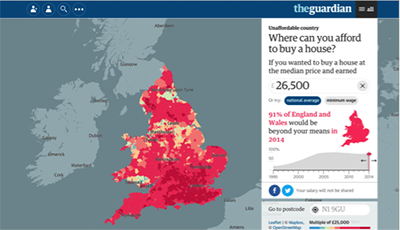
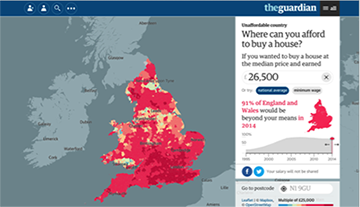
image size updated

diff --git a/tmakarem/_posts/2016-05-16-Data-visualisation-and-Scale-Leveraging-the-macro-and-the-micro.md b/tmakarem/_posts/2016-05-16-Data-visualisation-and-Scale-Leveraging-the-macro-and-the-micro.md
@@ -4,13 +4,11 @@ title: "Data Visualisation and Scale: Leveraging the Macro and the Micro"
 layout: default_post
 summary: "The size of things is relative to the scale that we set. This might sound like a trivial notion, but it is key to creating meaningful data visualisations."
 ---
-
 The size of things is relative to the scale that we set. This might sound like a trivial notion, but it is key to creating meaningful data visualisations.
 
 While attending a lecture on nanotechnology a few years back, I was introduced to The Powers of Ten, a documentary that perfectly illustrates this idea of scale. The documentary explores the relative scale of things in the Universe according to a magnitude based on a factor of ten. The film starts at a picnic in a park, and repeatedly zooms out by a factor of ten, going from the picknicker to the cosmic. It then takes us back to the picknicker, zooming to his hand, into the microscopic.
 
 ![Powers of ten]({{site.github.url}}/tmakarem/assets/000_powers-of-ten.png "Powers of ten")
-
 [Powers of ten](https://www.youtube.com/watch?v=0fKBhvDjuy0)
 
 The main idea in the documentary is that the size of something is relative to what we compare it to. The hand of the picknicker is huge compared to the proton of a carbon within a DNA molecule, but it is tiny compared to the Universe. The less obvious point is that certain things become irrelevant at certain scales. For example, If we try to visualise the proton at the Universe scale, we will find it difficult to get anything meaningful. Each magnitude allows us to perceive a certain type of data.
@@ -23,32 +21,19 @@ When we first look at the wall from afar, we can see that it is under the ground
 
 The commemoration of the dead is portrayed from the macro level to the micro level, unwrapping a layer of the message at each stage, and evoking emotions at each scale. The memorial captures meaning at every level of the scale.
 
-
-![Vietnam war memorial wall, Maya Lin]({{ site.github.url }}/tmakarem/assets/001_mayalin1.png "Vietnam war memorial wall, Maya Lin")
-
-![Vietnam war memorial wall, Maya Lin]({{ site.github.url }}/tmakarem/assets/002_mayalin2.png "Vietnam war memorial wall, Maya Lin")
-
-![Vietnam war memorial wall, Maya Lin]({{ site.github.url }}/tmakarem/assets/003_mayalin3.png "Vietnam war memorial wall, Maya Lin")
-
+![Vietnam war memorial wall, Maya Lin]({{ site.github.url }}/tmakarem/assets/001_mayalin1.png "Vietnam war memorial wall, Maya Lin")![Vietnam war memorial wall, Maya Lin]({{ site.github.url }}/tmakarem/assets/002_mayalin2.png "Vietnam war memorial wall, Maya Lin")![Vietnam war memorial wall, Maya Lin]({{ site.github.url }}/tmakarem/assets/003_mayalin3.png "Vietnam war memorial wall, Maya Lin")
 [Vietnam war memorial wall, Maya Lin](http://www.mayalin.com/)
 
 This type of visualisation can be equally applicable to other formats. Ben Fry, in a project entitled The Preservation of Favoured Traces, uses scale to provide a new perspective on Darwin’s theory, one that highlights its evolution throughout his lifetime. Darwin published On the Origin of Species in 1859 but continued revising it over the years. In Fry’s project, the words are colour-coded based on the edition they appeared in. At a macro level, we can view the extent of changes in Darwin’s theory and how much he adapted it over time. On a micro level, we can look at the exact edits and see how the theory evolved.
 
-![The preservation of Favoured Traces, Ben Fry]({{ site.github.url }}/tmakarem/assets/004_benfry1.png "The preservation of Favoured Traces, Ben Fry")
-
-![The preservation of Favoured Traces, Ben Fry]({{ site.github.url }}/tmakarem/assets/005_benfry2.png "The preservation of Favoured Traces, Ben Fry")
-
+![The preservation of Favoured Traces, Ben Fry]({{ site.github.url }}/tmakarem/assets/004_benfry1.png "The preservation of Favoured Traces, Ben Fry")![The preservation of Favoured Traces, Ben Fry]({{ site.github.url }}/tmakarem/assets/005_benfry2.png "The preservation of Favoured Traces, Ben Fry")
 [The preservation of Favoured Traces, Ben Fry](https://fathom.info/traces/)
 
 Maps are another common example of visualization in which zooming is often used to navigate between the macro and micro. As an example, we can look at a data visualization created by The Guardian entitled Unaffordable country: Where can you afford to buy a house?
 
 On a macro level, the map shows the evolution of the gap between income and house prices over 19 years. For a £26,500 salary from 1998 to 2005, the map goes from blue/green to pink/red, indicating that buyers need a much higher multiple of their salary to afford a house.
 
-![Unaffordable Country: Where can you afford to buy a house?, The Guardian]({{ site.github.url }}/tmakarem/assets/006_guardian1.png "Unaffordable Country: Where can you afford to buy a house?, The Guardian")
-
-![Unaffordable Country: Where can you afford to buy a house?, The Guardian]({{ site.github.url }}/tmakarem/assets/007_guardian2.png "Unaffordable Country: Where can you afford to buy a house?, The Guardian")
-
-[Unaffordable Country: Where can you afford to buy a house?, The Guardian](http://www.theguardian.com/society/ng-interactive/2015/sep/02/unaffordable-country-where-can-you-afford-to-buy-a-house)
+![Unaffordable Country: Where can you afford to buy a house?, The Guardian]({{ site.github.url }}/tmakarem/assets/006_guardian1.png "Unaffordable Country: Where can you afford to buy a house?, The Guardian")![Unaffordable Country: Where can you afford to buy a house?, The Guardian]({{ site.github.url }}/tmakarem/assets/007_guardian2.png "Unaffordable Country: Where can you afford to buy a house?, The Guardian")[Unaffordable Country: Where can you afford to buy a house?, The Guardian](http://www.theguardian.com/society/ng-interactive/2015/sep/02/unaffordable-country-where-can-you-afford-to-buy-a-house)
 
 On a micro level, we can look at the median house price in an area and a more detailed view of the house prices at a street level. The level of detail is kept appropriate to how far we are zoomed in or out.
 
@@ -62,14 +47,9 @@ Consider the design of a calendar for example. Similar to the examples I mention
 
 The yearly view provides an overview. The monthly view highlights days on which we have upcoming events. At that scale, we are less concerned with the exact time of the event or its description. The weekly and daily views are much more time sensitive. They present an itinerary.
 
-![iOS Calendar (Yearly, monthly and daily views)]({{ site.github.url }}/tmakarem/assets/012_ios-calendar-1.png "iOS Calendar (Yearly, monthly and daily views)")
-
-![iOS Calendar (Yearly, monthly and daily views)]({{ site.github.url }}/tmakarem/assets/013_ios-calendar-2.png "iOS Calendar (Yearly, monthly and daily views)")
-
-![iOS Calendar (Yearly, monthly and daily views)]({{ site.github.url }}/tmakarem/assets/014_ios-calendar-3.png "iOS Calendar (Yearly, monthly and daily views)")
+![iOS Calendar (Yearly, monthly and daily views)]({{ site.github.url }}/tmakarem/assets/012_ios-calendar-1.png "iOS Calendar (Yearly, monthly and daily views)")![iOS Calendar (Yearly, monthly and daily views)]({{ site.github.url }}/tmakarem/assets/013_ios-calendar-2.png "iOS Calendar (Yearly, monthly and daily views)")![iOS Calendar (Yearly, monthly and daily views)]({{ site.github.url }}/tmakarem/assets/014_ios-calendar-3.png "iOS Calendar (Yearly, monthly and daily views)")
 
 ![Windows Calendar live tile]({{ site.github.url }}/tmakarem/assets/015-live-tile.jpg "Windows Calendar live tile")
-
 [Windows Calendar live tile](http://winsupersite.com/site-files/winsupersite.com/files/archive/winsupersite.com/content/content/142698/tile.jpg)
 
 If we navigate a calendar from the yearly drilling into the daily, scale would reflect distance. However, interactivity allows us to navigate it in a nonlinear way. Let’s take the calendar in the Windows 10 design as an example. A live tile on the home screen presents an overview of the calendar. It displays upcoming events. We tap on the live tile to navigate to a full view of the calendar. The user can customize the calendar and choose its default view. The user can also dynamically switch between the default view and the other calendar views on the same page. The live tile is the first layer of the scale, and the custom view is the second. Scale is reflected in the layers of navigation. It is no longer defined by the yearly, monthly, weekly or daily view of the calendar.
